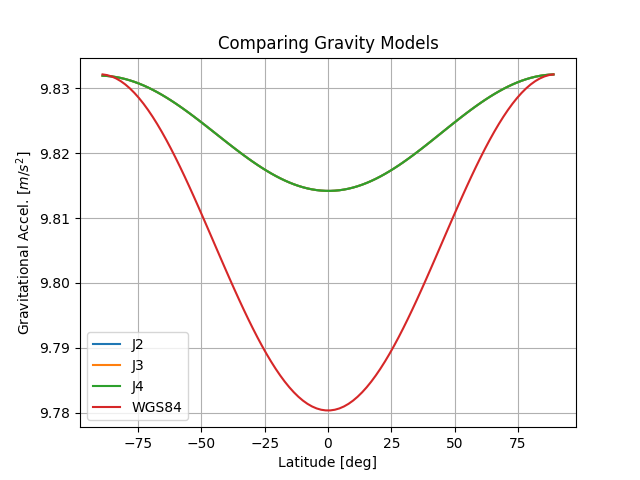
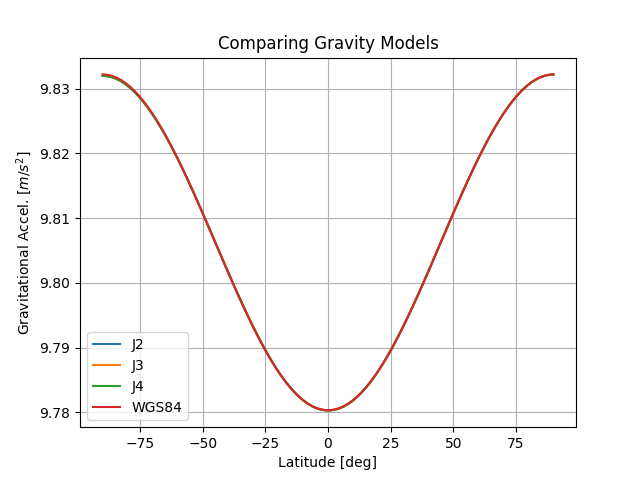
Factored in centrifugal accel

diff --git a/models/zonal.py b/models/zonal.py
@@ -64,7 +64,10 @@ def zonal(lat: float, lon: float, order=2) -> float:
         y_accel -= y_term
         z_accel -= z_term
 
-    grav_ecef = np.array([x_accel, y_accel, z_accel])
+    w = np.array([0, 0, constants.WGS84_W_EARTH_RPS])
+    centrfugal_accel = np.cross(w, np.cross(w, r_vec))
+
+    grav_ecef = np.array([x_accel, y_accel, z_accel]) - centrfugal_accel
     grav_ned = utils.dcm_ecef_to_ned(lat, lon) @ grav_ecef
 
     return grav_ned[2]

diff --git a/utils/constants.py b/utils/constants.py
@@ -10,4 +10,5 @@ WGS84_A_M = 6378137  # semi-major axis [m]
 WGS84_ECC = 0.0818191908426215  # eccentricity
 WGS84_ECC2 = WGS84_ECC**2  # eccentricity squared
 WGS84_GM_M3PS2 = 3.986004418e14  # Gravitational parameter [m^3/s^2].
+WGS84_W_EARTH_RPS = 7.292115e-5  # Earth rotation rate [rad/s].
 GRAV_MPSPS = 9.80665  # Standard gravitational acceleration [m/s/s]

diff --git a/main.py b/main.py
@@ -11,7 +11,7 @@ import models
 import numpy as np
 import matplotlib.pyplot as plt
 
-latitudes = list(np.linspace(-89, 89, 100))
+latitudes = list(np.linspace(-90, 90, 100))
 
 zonal_j2 = []
 zonal_j3 = []

diff --git a/README.md b/README.md
@@ -11,4 +11,5 @@ Code to do a quick comparison of basic earth gravity models. Models include:
 
 ## Resources
 
-https://www.mathworks.com/help/aerotbx/ug/comparing-zonal-harmonic-gravity-model-to-other-gravity-models.html
+* https://www.mathworks.com/help/aerotbx/ug/comparing-zonal-harmonic-gravity-model-to-other-gravity-models.html
+* https://ntrs.nasa.gov/api/citations/20060028164/downloads/20060028164.pdf
